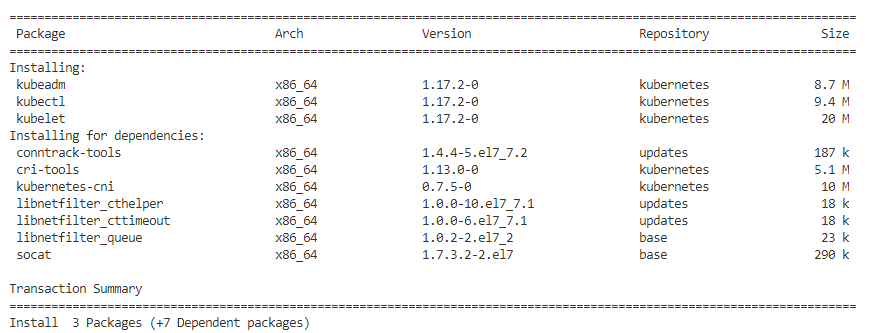
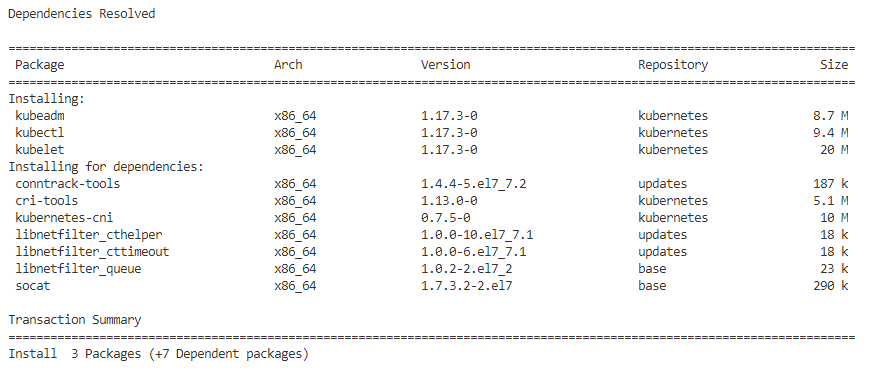
updated to v1.17.3

diff --git a/README.md b/README.md
@@ -175,7 +175,7 @@ yum install -y kubelet kubeadm kubectl --disableexcludes=kubernetes
 systemctl enable --now kubelet
 ```
 
-The current version installed is V1.17.2
+The current version installed is V1.17.3
 
 <img src="images/kube-version.PNG">
 
@@ -216,7 +216,7 @@ EOF
 kubeadm init \
     --apiserver-advertise-address=192.168.56.106 \
     --image-repository registry.aliyuncs.com/google_containers \
-    --kubernetes-version v1.17.2 \
+    --kubernetes-version v1.17.3 \
     --pod-network-cidr=192.168.0.0/16
 ```
 
@@ -234,6 +234,14 @@ Run `kubectl get pods --all-namespaces`
 <img src="images/pod1.PNG">
 
 > Note, the coredns pod will be in pending status
+
+Enable schedules on master node (Optional), run:
+```bash
+kubectl taint nodes --all node-role.kubernetes.io/master-
+```
+
+> By default, your cluster will not schedule Pods on the control-plane node for security reasons.
+
 
 ## 6. Install CoreDNS add-on
 
